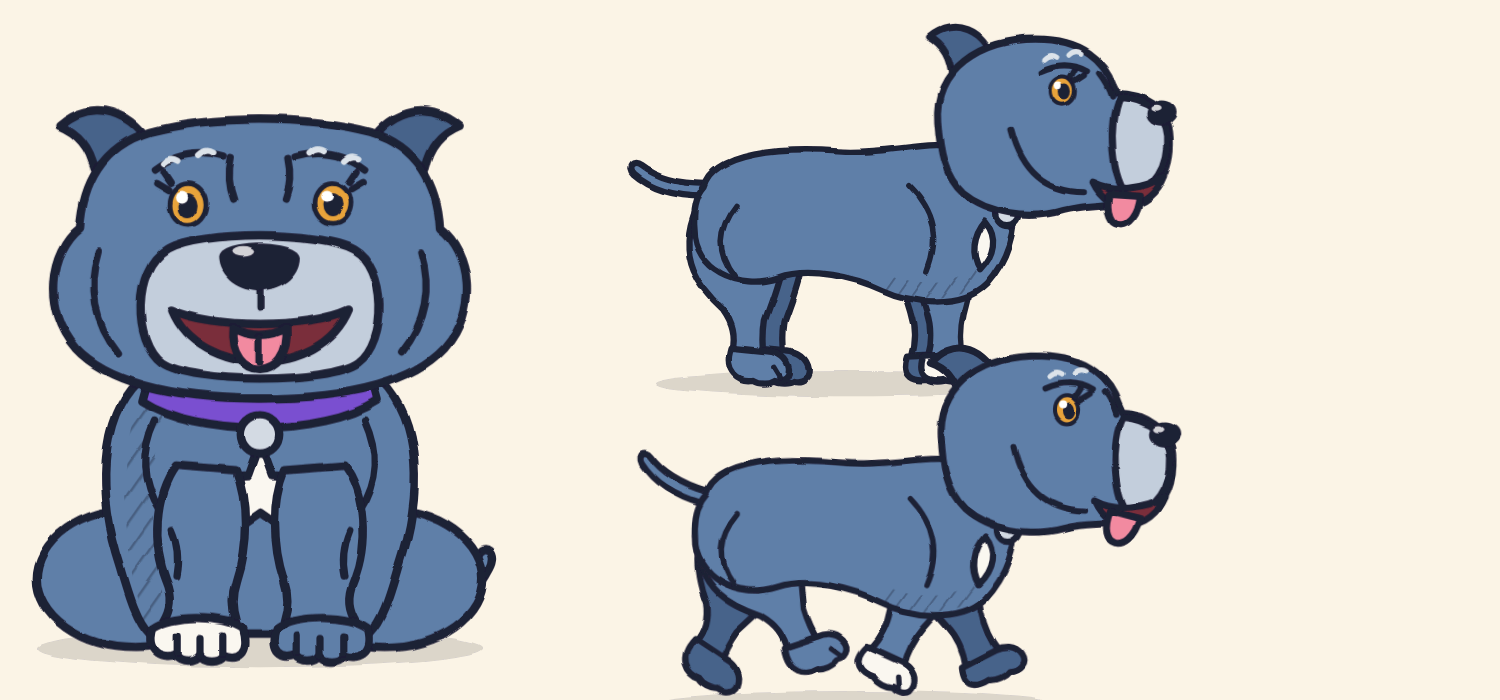
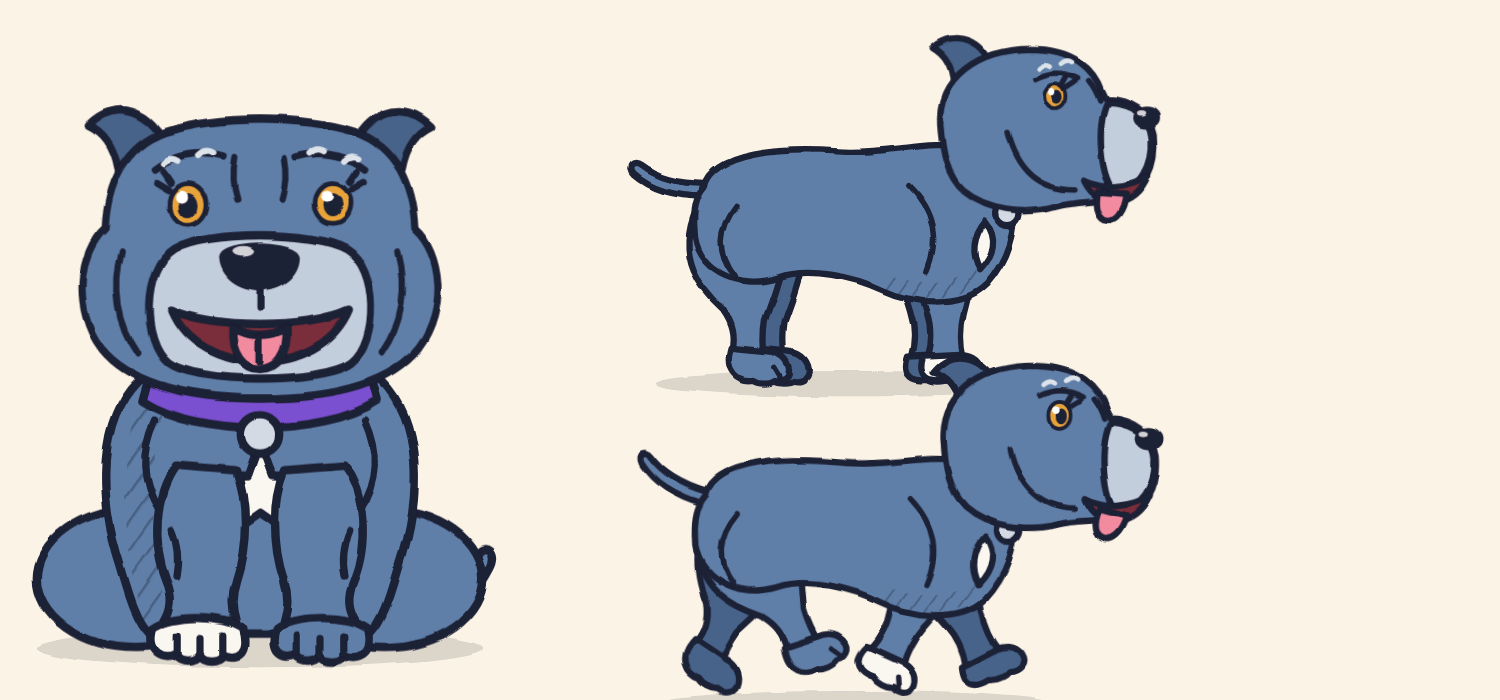
Slim Cleo's head (option 2) in mascot rig and character sheet; video not re-rendered
Claude-Session: https://claude.ai/code/session_01KSTxp51h4UMQBGAoYyjjMt

diff --git a/marketing/promo-video/dog.js b/marketing/promo-video/dog.js
@@ -12,7 +12,7 @@ const LOOKS = {
   // B: Cleo, brighter - bluer coat, lashes, sky-blue brand bandana under the purple collar
   cleoBandana: { coat: '#6A809C', coatD: '#51637D', coatL: '#8A9DB6', blaze: false, chest: 'small', muzzle: '#BFC9D6', silver: true, eye: '#E0A035', lashes: true, bandana: '#2BA6DE', collar: '#6B4BB8', whiteFeet: 'one' },
   // C: hero Cleo - saturated cartoon blue, bold amber eyes, lashes, purple collar, bigger white chest mark
-  cleoHero: { coat: '#5E7FA8', coatD: '#46638A', coatL: '#86A2C4', blaze: false, chest: 'star', muzzle: '#C3CEDC', silver: true, eye: '#E8A33A', lashes: true, bandana: null, collar: '#7A4FD0', whiteFeet: 'one', blush: false, tag: '#D3DAE3' },
+  cleoHero: { coat: '#5E7FA8', coatD: '#46638A', coatL: '#86A2C4', blaze: false, chest: 'star', muzzle: '#C3CEDC', silver: true, eye: '#E8A33A', lashes: true, bandana: null, collar: '#7A4FD0', whiteFeet: 'one', blush: false, tag: '#D3DAE3', headW: 0.86, sideHead: 1.03 },
 };
 let LOOK = LOOKS.promo;
 function useLook(name) { LOOK = LOOKS[name] || LOOKS.promo; }
@@ -43,13 +43,17 @@ function sitDogSVG(id) {
   ${K.bandana ? `<path d="M116,280 C160,300 240,300 284,280 L204,384 C201,388 199,388 196,384 Z" fill="${K.bandana}" ${S}/><path d="M150,300 l6,10 M180,312 l4,12 M220,312 l-4,12 M250,300 l-6,10" fill="none" stroke="#fff" stroke-width="5" stroke-linecap="round" opacity=".7"/>` : ''}
   <circle cx="200" cy="312" r="16" fill="${K.tag || TAG}" ${S} stroke-width="5"/>
   <g id="${id}-head">
+   <g transform="translate(200 0) scale(${K.headW || 1} 1) translate(-200 0)">
    <g id="${id}-earL"><path d="M112,76 C96,42 62,30 34,54 C48,60 58,70 62,90 C76,80 92,78 116,86 Z" fill="${COAT_D}" ${S}/></g>
    <g id="${id}-earR"><path d="M288,76 C304,42 338,30 366,54 C352,60 342,70 338,90 C324,80 308,78 284,86 Z" fill="${COAT_D}" ${S}/></g>
    <path d="M108,60 C160,46 240,46 292,60 C332,72 348,104 350,140 C376,160 382,208 354,240 C330,266 280,282 200,282 C120,282 70,266 46,240 C18,208 24,160 50,140 C52,104 68,72 108,60 Z" fill="${COAT}" ${S}/>
    ${K.blaze ? `<path d="M190,52 C186,88 186,116 182,140 L218,140 C214,116 214,88 210,52 C204,50 196,50 190,52 Z" fill="${WHITE}"/>` : ''}
    <path d="M176,82 Q172,100 178,116 M224,82 Q228,100 222,116" ${L} stroke-width="4"/>
    <path d="M66,160 Q52,206 82,244 M334,160 Q348,206 318,244" ${L} stroke-width="5"/>
+   </g>
+   <g transform="translate(200 0) scale(${1 - (1 - (K.headW || 1)) * 0.5} 1) translate(-200 0)">
    <path d="M122,158 C150,142 250,142 278,158 C306,174 306,234 282,252 C256,270 144,270 118,252 C94,234 94,174 122,158 Z" fill="${COAT_L}" ${S} stroke-width="5"/>
+   </g>
    ${K.blush === false ? '' : `<ellipse cx="86" cy="212" rx="20" ry="11" fill="${BLUSH}" opacity=".75"/>
    <ellipse cx="314" cy="212" rx="20" ry="11" fill="${BLUSH}" opacity=".75"/>`}
    <g id="${id}-eyes">
@@ -92,7 +96,7 @@ function sideDogSVG(id) {
   <path d="M486,134 C518,144 542,168 550,202 L530,208 C522,180 506,160 478,152 Z" fill="${K.collar}" ${S} stroke-width="6"/>
   ${K.bandana ? `<path d="M476,150 C510,164 536,186 548,212 L500,268 C496,272 492,270 492,266 Z" fill="${K.bandana}" ${S} stroke-width="6"/>` : ''}
   <circle cx="542" cy="216" r="13" fill="${K.tag || TAG}" ${S} stroke-width="5"/>
-  <g id="${id}-head"><g transform="translate(500 160) scale(1.12) translate(-500 -160)">
+  <g id="${id}-head"><g transform="translate(500 160) scale(${K.sideHead || 1.12}) translate(-500 -160)">
    <g id="${id}-ear"><path d="M524,60 C516,26 484,14 460,34 C474,42 480,54 482,72 C494,66 506,62 526,64 Z" fill="${COAT_D}" ${S}/></g>
    <path d="M468,118 C464,66 510,36 566,36 C612,36 634,58 642,82 L646,90 C672,90 694,104 698,128 C702,162 688,188 662,196 C642,202 612,200 592,206 C560,216 518,210 494,190 C474,172 470,146 468,118 Z" fill="${COAT}" ${S}/>
    <path d="M648,94 C676,96 694,110 696,132 C698,162 684,184 658,192 C640,176 636,120 648,94 Z" fill="${COAT_L}" ${S} stroke-width="5"/>

diff --git a/marketing/mascot/README.md b/marketing/mascot/README.md
@@ -9,7 +9,7 @@ Cleo is based on Tristan's own blue staffy girl, pushed into a bolder cartoon st
 | Feature | Detail |
 |---|---|
 | Coat | Bold cartoon blue `#5E7FA8`, shade `#46638A` |
-| Head | Box-shaped staffy head with big cheek muscles, forehead wrinkles and folded rose ears |
+| Head | Box-shaped staffy head, drawn about 14% narrower than the original promo dog (`headW: 0.86`), with cheek muscles, forehead wrinkles and folded rose ears |
 | Muzzle | Silvery grey `#C3CEDC`, with silver flecks above the brows |
 | Eyes | Amber `#E8A33A` with soft lashes |
 | Markings | Small white star on the chest, one white front foot (the other paws are coat-coloured) |
@@ -19,3 +19,6 @@ Cleo is based on Tristan's own blue staffy girl, pushed into a bolder cartoon st
 ## Using her
 
 The character rig is `marketing/promo-video/dog.js`. Call `useLook('cleoHero')` before drawing, then use `sitDogSVG(id)` with `new SitDog(id).set(t, {...})` for the sitting, front-on pose, or `sideDogSVG(id)` with `new SideDog(id).set(t, {...})` for walking and running. The expression options are `brow` (normal, confused, sad, up), `mouth` (open, smile, frown), `happy`, `ears`, `tilt` and `wag`.
+
+
+Note: the rig's default Cleo now has the slimmer head. `canine-confidence-cartoon.mp4` was rendered before that change, so it still shows the wider head until the video is re-rendered.
